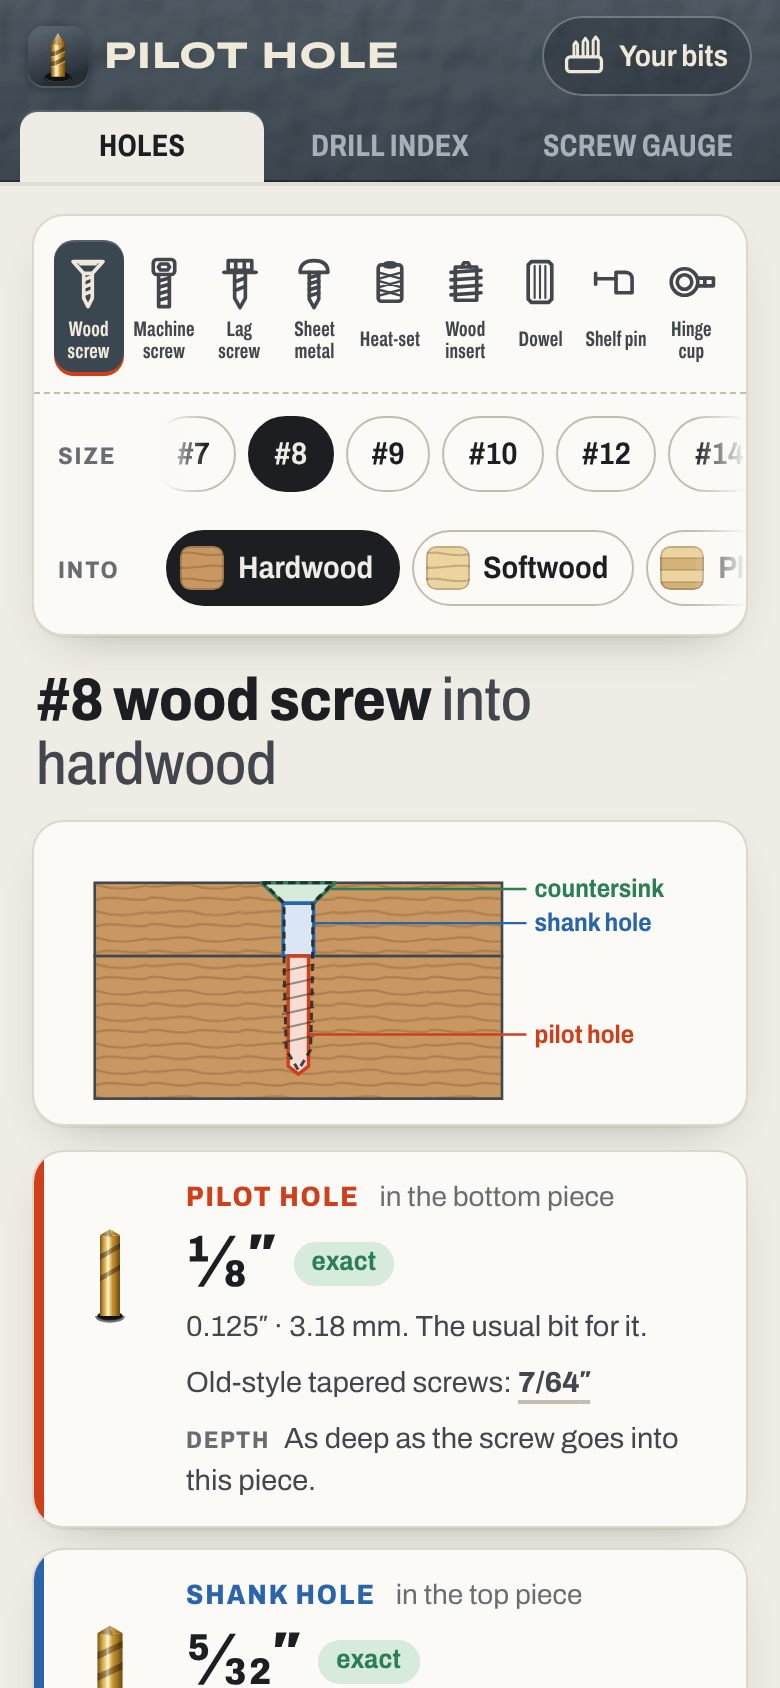
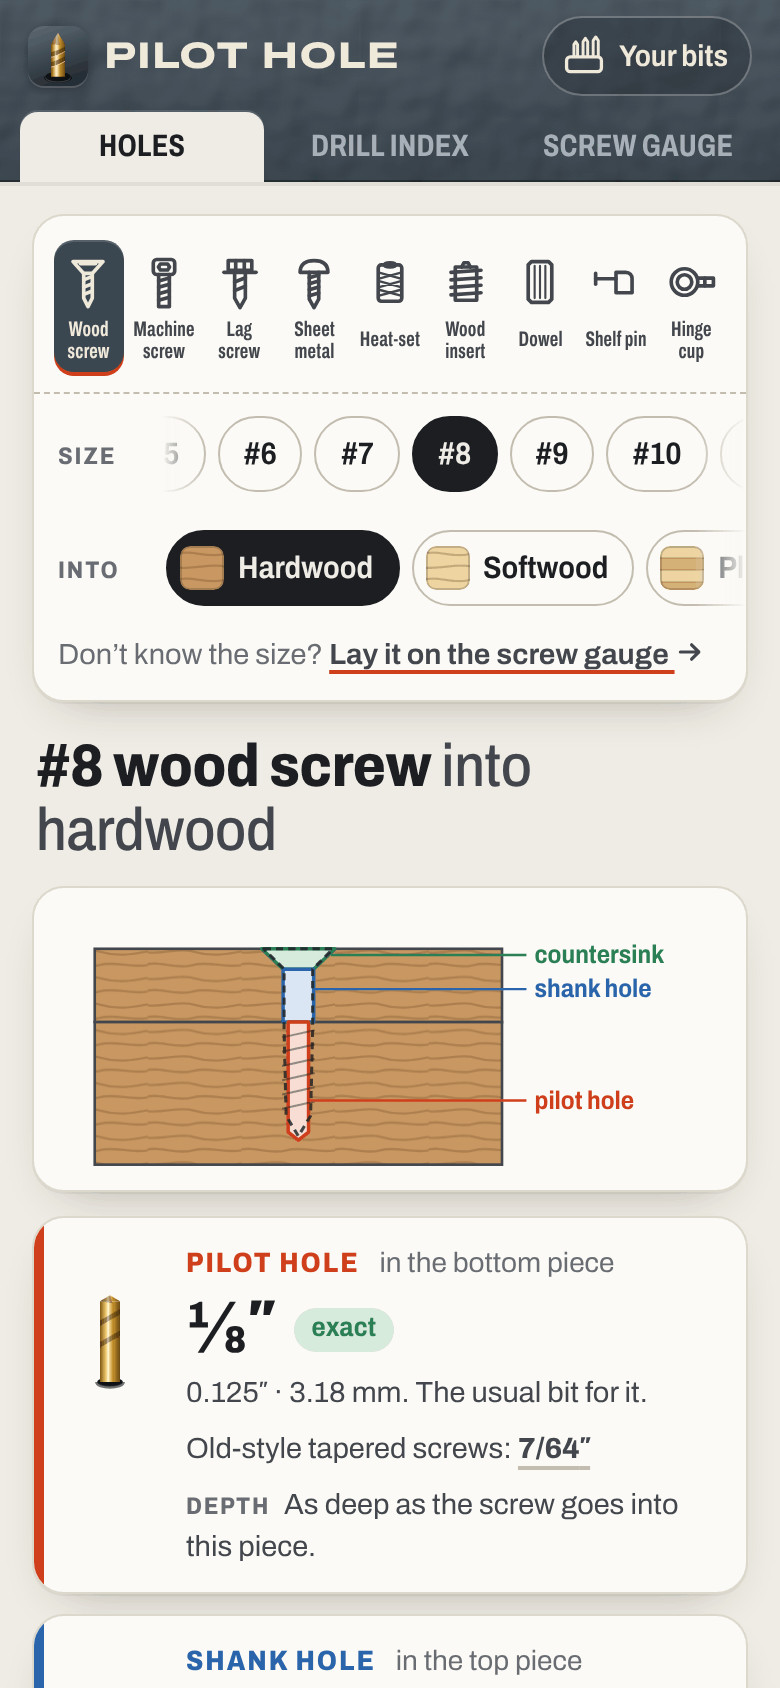
README: the thread gauge's leaves, what a named bit is for, and the way in from Holes
The README's gauge paragraph now says the combs are drawn as a thread gauge's steel leaves with the pitch stamped on, that a drill bit the gauge names shows what it's known for, and that the Holes screen points to the gauge from any screw. The test notes mention the 320-wide phone, and the Holes screenshot is redrawn with the new line under the picker.

Claude-Session: https://claude.ai/code/session_01N3tHmrVtD9q2Zcak1ErX34

Changed region(s): [[0.0308, 0.3697, 0.9538, 1.0], [0.2154, 0.2464, 0.9538, 0.3081]]

diff --git a/README.md b/README.md
@@ -17,7 +17,7 @@
 - **Holes.** Wood screws #2 to #14; machine screws and bolts #0-80 to 1/2-20 and M2 to M12, coarse and fine; lag screws, sheet-metal screws, heat-set inserts for 3D prints, threaded inserts for wood, dowels, shelf pins and 35 mm hinge cups. They go into hardwood, softwood, plywood, MDF, aluminium, steel or a printed part. A section through the joint shows where each hole goes, coloured to match its card.
 - **In your bits.** Tick the sets in your drawer (fractional, number, letter, metric, the drills from a tap set, Forstner bits) and add loose ones. Each hole names the bit of yours that suits it best and how far off it is: exact, 0.0018″ big, or the 72% thread a 13/64″ bit gives a 1/4-20 tap. When the exact bit for a pilot hole in wood or a dowel is missing, it names the neighbour that will do and what to watch ("7/64″: a hair tight in hardwood: wax the screw and drive it slowly"). When nothing you have will do, it says what to get and what's wrong with the nearest either side: "95% thread: too tight, the tap may snap", "bigger than the screw: no thread at all".
 - **The drill index.** Each set you own is drawn as a steel case with every bit standing in a hole sized to it: gold fractional bits, black number bits, bright letter bits, cobalt metric ones. Tap a bit to see everything it's right for, in pilot holes, tap drills, clearance holes, inserts and counterbores; tap 7/64″ and it lists the pilot for an old-style #8 in hardwood, the shank hole for a #4 and the tap drill for #6-32. Mark the ones that went missing, and the answers stop using them.
-- **The screw gauge.** Calibrate the screen once by matching a line to the end of a bank card (85.60 mm long, the same for every card), lay a screw on the glass, and slide two jaws to its threads and its length. Hold its threads against true-size combs that span ten threads, so 1/4-20, M6 × 1 and 1/4-28 come apart, and it names it: 1/4-20 × 1½ hex bolt, M3 × 0.5 × 10 socket head, #8 × 1¼ wood screw, drawn at true size where it lay, so you can lay it back on its drawing and watch the two match, with its holes and tools. Pitch twins no comb can part (M5 and #10-32) go by the measured size. Lay a drill bit down instead and it says which one it is, honest that a pixel is about 0.17 mm: it names what else is that close, leans to bits you own, and spots one that went missing from your case. A screw longer than the glass can tuck the panel away. The gauge locks pinch-zoom, ignores a finger holding the card or the screw, and asks again if the screen or the zoom changes.
+- **The screw gauge.** Calibrate the screen once by matching a line to the end of a bank card (85.60 mm long, the same for every card), lay a screw on the glass, and slide two jaws to its threads and its length. Hold its threads against true-size combs, drawn as the steel leaves of a thread gauge with the pitch stamped on, that span ten threads, so 1/4-20, M6 × 1 and 1/4-28 come apart, and it names it: 1/4-20 × 1½ hex bolt, M3 × 0.5 × 10 socket head, #8 × 1¼ wood screw, drawn at true size where it lay, so you can lay it back on its drawing and watch the two match, with its holes and tools. Pitch twins no comb can part (M5 and #10-32) go by the measured size. Lay a drill bit down instead and it says which one it is, honest that a pixel is about 0.17 mm: it names what else is that close, leans to bits you own, spots one that went missing from your case, and shows what the bit is known for (#29: the #8-32 tap drill). The Holes screen points to it from any screw: "Don't know the size?" A screw longer than the glass can tuck the panel away. The gauge locks pinch-zoom, ignores a finger holding the card or the screw, and asks again if the screen or the zoom changes.
 - **Where the numbers come from.** Number and letter drills from ASME B94.11M. Unified inch threads (ASME B1.1) and ISO metric threads (ISO 261 and 262), with tap drills by the shop formula for a 75% thread, which lands on the usual chart bit for every thread. Close and free clearance from the Little Machine Shop chart for inch sizes and ISO 273 for metric. Wood screw pilot, shank and counterbore sizes from WOOD Magazine's chart, for production and traditional screws. Socket, button and countersunk heads from ASME B18.3, ISO 4762, ISO 7380 and ISO 10642; hex heads and nuts from ASME B18.2.1 and B18.2.2 and ISO 4014 and 4032; flat washers from ASME B18.21.1 (SAE) and ISO 7089, so a nut's counterbore takes its washer. Lag lead holes from the NDS, sheet-metal pilots from ASME B18.6.4, heat-set insert holes from Ruthex and CNC Kitchen, wood insert holes from E-Z Lok's chart, and hinge cups on Blum's 45/9.5 pattern.
 - No account and no server. Your bits stay in your browser; save a copy to move them to another device. It works offline and installs to a phone's home screen. Light and dark follow your phone.
 
@@ -42,4 +42,4 @@ To put it online with GitHub Pages: **Settings → Pages → Build and deploymen
 - `fonts/`: Archivo (SIL Open Font License), served from here so nothing loads from elsewhere.
 - `sw.js`: keeps a copy for using offline.
 - `og.png`: the link preview, and `docs/`: the screenshots above, both drawn from the app by `tools/screenshots.mjs`.
-- `test/unit.test.mjs` checks every table against its published values, that the 75% formula picks the chart's tap drill for every thread, that every fastener in every material gives sensible holes, that every hole can be found again from its own bit, and the gauge's arithmetic. `test/e2e.mjs` uses it on a phone: picks fasteners and materials, ticks a metric set, marks a bit missing, saves and loads the bits, calibrates the gauge with a drag, names a bolt (checking its drawing is true size) and a drill bit, tells an M5 from a #10-32 by size and tucks the panel for a long screw on a small phone; then checks it installs and works offline.
+- `test/unit.test.mjs` checks every table against its published values, that the 75% formula picks the chart's tap drill for every thread, that every fastener in every material gives sensible holes, that every hole can be found again from its own bit, and the gauge's arithmetic. `test/e2e.mjs` uses it on a phone: picks fasteners and materials, ticks a metric set, marks a bit missing, saves and loads the bits, calibrates the gauge with a drag, names a bolt (checking its drawing is true size) and a drill bit, tells an M5 from a #10-32 by size, tucks the panel for a long screw on a small phone, and fits a 320-wide phone; then checks it installs and works offline.
